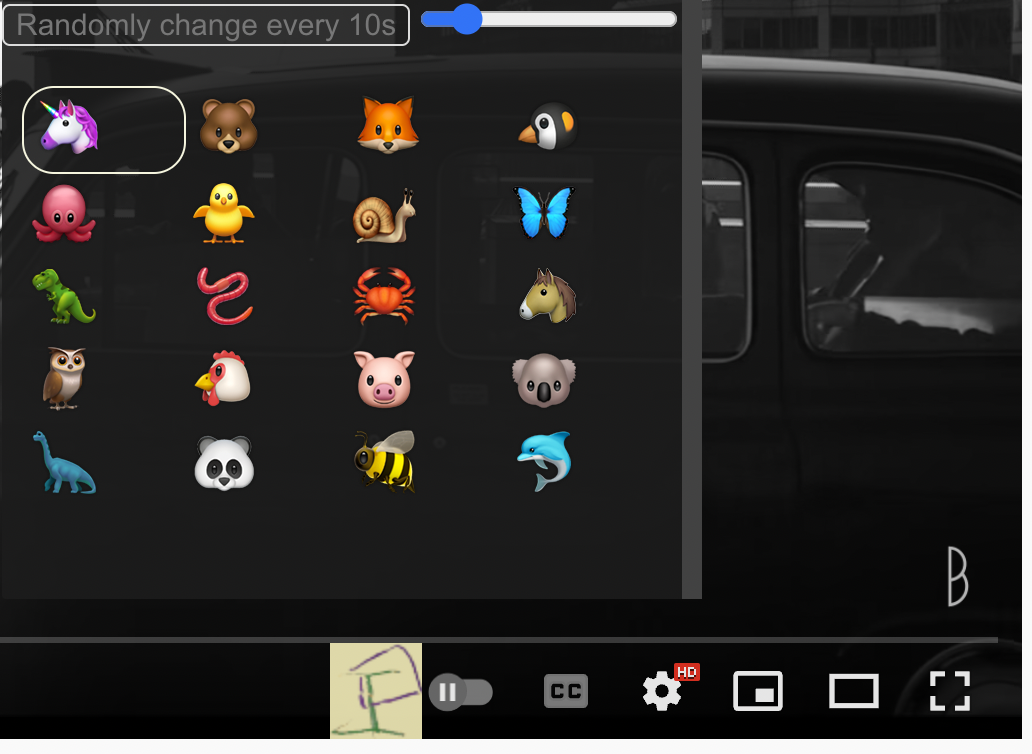
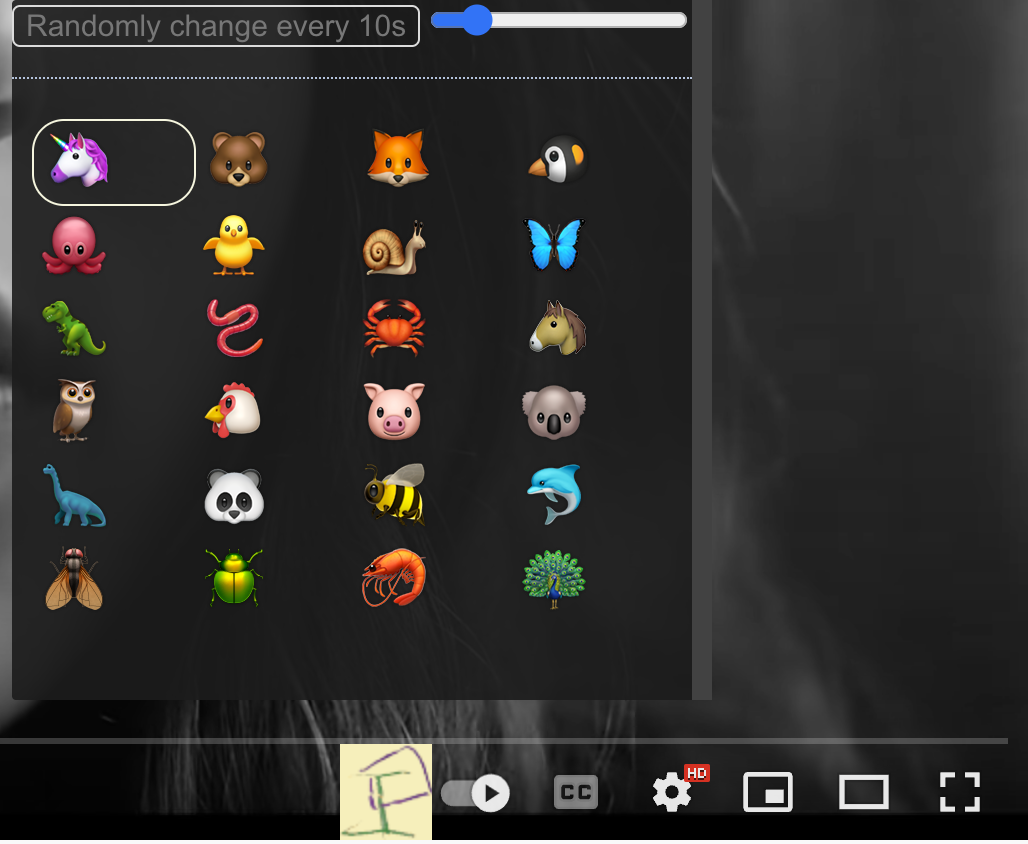
Add 4 new animations
- new menu screenshot
- fix typo manifest.json

diff --git a/src/anim.js b/src/anim.js
@@ -33,6 +33,7 @@ function Anim(mainVideo, canvas, canvasGL, ctx, webGLtx) {
     this.particlesEffectType = 0;
     this.attractionBehaviour = null;
     this.attractionBehaviours = [];
+    this.repulsionBehaviour = null;
     this.nosePosition = {
         x: 400,
         y: 200
@@ -353,6 +354,22 @@ function Anim(mainVideo, canvas, canvasGL, ctx, webGLtx) {
             this.currentAnimation = "particle";
             this.particlesEffectType = 14;
             this.initParticles();
+        }else if (animationId == "particleFireFly"){
+            this.currentAnimation = "particle";
+            this.particlesEffectType = 15;
+            this.initParticles();
+        }else if (animationId == "particleFireFlyColor"){
+            this.currentAnimation = "particle";
+            this.particlesEffectType = 16;
+            this.initParticles();
+        }else if (animationId == "particleSpit"){
+            this.currentAnimation = "particle";
+            this.particlesEffectType = 17;
+            this.initParticles();
+        }else if (animationId == "particle2BallHeadExp"){
+            this.currentAnimation = "particle";
+            this.particlesEffectType = 18;
+            this.initParticles();
         }
     }
 
@@ -421,8 +438,8 @@ function Anim(mainVideo, canvas, canvasGL, ctx, webGLtx) {
         } else if (this.particlesEffectType === 1) {
             // ### Two head balls
             this.proton = new Proton();
-            this.protonEmitterArray[0] = this.createImageEmitter(this.canvas.width / 2 + this.conf.radius, this.canvas.height / 2, '#4F1500', '#0029FF');
-            this.protonEmitterArray[1] = this.createImageEmitter(this.canvas.width / 2 - this.conf.radius, this.canvas.height / 2, '#004CFE', '#6600FF');
+            this.protonEmitterArray[0] = this.createImageEmitter(this.canvas.width / 2 + this.conf.radius, this.canvas.height / 2, '#4F1500', '#0029FF', 3.5);
+            this.protonEmitterArray[1] = this.createImageEmitter(this.canvas.width / 2 - this.conf.radius, this.canvas.height / 2, '#004CFE', '#6600FF', 3.5);
 
             this.tryWebGLRendererInit();
 
@@ -675,13 +692,6 @@ function Anim(mainVideo, canvas, canvasGL, ctx, webGLtx) {
             this.protonEmitterArray[0].emit();
             this.proton.addEmitter(this.protonEmitterArray[0]);
 
-            let renderer = new Proton.CanvasRenderer(this.canvas);
-            // renderer.onProtonUpdate = function() {
-            //     this.ctx.fillStyle = "rgba(0, 0, 0, 0.07)";
-            //     this.ctx.fillRect(0, 0, this.canvas.width, this.canvas.height);
-            // };
-
-            //this.proton.addRenderer(renderer);
             this.tryWebGLRendererInit();
         }else if (this.particlesEffectType == 14){
             this.proton = new Proton();
@@ -710,17 +720,148 @@ function Anim(mainVideo, canvas, canvasGL, ctx, webGLtx) {
             this.protonEmitterArray[0].emit();
             this.proton.addEmitter(this.protonEmitterArray[0]);
 
-            // let renderer = new Proton.WebGLRenderer(this.canvas);
-            // renderer.blendFunc("SRC_ALPHA", "ONE");
+            this.tryWebGLRendererInit();
+        }else if (this.particlesEffectType == 15){
+            // particleFireFly
+            this.proton = new Proton();
+            this.protonEmitterArray[0] = new Proton.Emitter();
+
+            this.protonEmitterArray[0].damping = 0.0075;
+            this.protonEmitterArray[0].rate = new Proton.Rate(1480);
+
+            let particleImage = new Image();
+            particleImage.src = chrome.runtime.getURL("/images/particle.png");
+            particleImage.onload = () => {
+                this.protonEmitterArray[0].addInitialize(new Proton.Body(particleImage, 64));
+            }
+
+            this.protonEmitterArray[0].addInitialize(new Proton.Position(new Proton.RectZone(0, 0, this.canvas.width, this.canvas.height)));
+            this.protonEmitterArray[0].addInitialize(new Proton.Mass(1), new Proton.Radius(Proton.getSpan(5, 10)));
+
+            this.nosePosition = {
+                x: this.canvas.width / 2,
+                y: this.canvas.height / 2
+            };
+            this.repulsionBehaviour = new Proton.Repulsion(this.nosePosition, 0, 0);
+            let crossZoneBehaviour = new Proton.CrossZone(new Proton.RectZone(-2, 0, this.canvas.width, this.canvas.height), 'cross');
+            this.protonEmitterArray[0].addBehaviour(this.repulsionBehaviour, crossZoneBehaviour);
+            this.protonEmitterArray[0].addBehaviour(new Proton.Scale(Proton.getSpan(.1, .4)));
+            this.protonEmitterArray[0].addBehaviour(new Proton.Alpha(.5));
+            this.protonEmitterArray[0].addBehaviour(new Proton.RandomDrift(10, 10, .2));
+
+            this.protonEmitterArray[0].addBehaviour({
+                initialize: function(particle) {
+                    particle.tha = Math.random() * Math.PI;
+                    particle.thaSpeed = 0.015 * Math.random() + 0.005;
+                },
+
+                applyBehaviour: function(particle) {
+                    particle.tha += particle.thaSpeed;
+                    particle.alpha = Math.abs(Math.cos(particle.tha));
+                }
+            });
+
+            this.protonEmitterArray[0].emit('once');
+            this.proton.addEmitter(this.protonEmitterArray[0]);
+
+            // let renderer = new Proton.CanvasRenderer(this.canvas);
             // this.proton.addRenderer(renderer);
             this.tryWebGLRendererInit();
+
+        }else if (this.particlesEffectType == 16){
+            // particleFireFlyColor
+            this.proton = new Proton();
+            this.protonEmitterArray[0] = new Proton.Emitter();
+
+            this.protonEmitterArray[0].damping = 0.0075;
+            this.protonEmitterArray[0].rate = new Proton.Rate(1480);
+
+            let particleImage = new Image();
+            particleImage.src = chrome.runtime.getURL("/images/particle.png");
+            particleImage.onload = () => {
+                this.protonEmitterArray[0].addInitialize(new Proton.Body(particleImage, 64));
+            }
+
+            this.protonEmitterArray[0].addInitialize(new Proton.Position(new Proton.RectZone(0, 0, this.canvas.width, this.canvas.height)));
+            this.protonEmitterArray[0].addInitialize(new Proton.Mass(1), new Proton.Radius(Proton.getSpan(5, 10)));
+            this.protonEmitterArray[0].addBehaviour(new Proton.Color('rgba(255,200,0,0.16)', '#ffff00'));
+
+            this.nosePosition = {
+                x: this.canvas.width / 2,
+                y: this.canvas.height / 2
+            };
+            this.repulsionBehaviour = new Proton.Repulsion(this.nosePosition, 0, 0);
+            let crossZoneBehaviour = new Proton.CrossZone(new Proton.RectZone(-2, 0, this.canvas.width, this.canvas.height), 'cross');
+            this.protonEmitterArray[0].addBehaviour(this.repulsionBehaviour, crossZoneBehaviour);
+            this.protonEmitterArray[0].addBehaviour(new Proton.Scale(Proton.getSpan(.1, 3.4)));
+            this.protonEmitterArray[0].addBehaviour(new Proton.Alpha(.5));
+            this.protonEmitterArray[0].addBehaviour(new Proton.RandomDrift(10, 10, .2));
+
+            this.protonEmitterArray[0].addBehaviour({
+                initialize: function(particle) {
+                    particle.tha = Math.random() * Math.PI;
+                    particle.thaSpeed = 0.015 * Math.random() + 0.005;
+                },
+
+                applyBehaviour: function(particle) {
+                    particle.tha += particle.thaSpeed;
+                    particle.alpha = Math.abs(Math.cos(particle.tha));
+                }
+            });
+
+            this.protonEmitterArray[0].emit('once');
+            this.proton.addEmitter(this.protonEmitterArray[0]);
+
+            // let renderer = new Proton.CanvasRenderer(this.canvas);
+            // this.proton.addRenderer(renderer);
+            this.tryWebGLRendererInit();
+        }else if (this.particlesEffectType == 17){
+            // particleSpit
+            this.proton = new Proton();
+            this.protonEmitterArray[0] = new Proton.Emitter();
+
+            //this.protonEmitterArray[0].damping = 0.0075;
+            this.protonEmitterArray[0].rate = new Proton.Rate(new Proton.Span(10, 15), new Proton.Span(.05, .1));
+
+            let particleImage = new Image();
+            particleImage.src = chrome.runtime.getURL("/images/particle.png");
+            particleImage.onload = () => {
+                this.protonEmitterArray[0].addInitialize(new Proton.Body(particleImage));
+            }
+
+            this.protonEmitterArray[0].addInitialize(new Proton.Mass(1));
+            this.protonEmitterArray[0].addInitialize(new Proton.Life(1, 3));
+            this.protonEmitterArray[0].addInitialize(new Proton.Position(new Proton.CircleZone(0, 0, 20)));
+            this.protonEmitterArray[0].addInitialize(new Proton.Velocity(new Proton.Span(5, 8), new Proton.Span(-15, 15), 'polar'));
+            this.protonEmitterArray[0].addBehaviour(new Proton.RandomDrift(10, 10, .05));
+
+            this.protonEmitterArray[0].addBehaviour(new Proton.Alpha(0.1, 1));
+            this.protonEmitterArray[0].addBehaviour(new Proton.Scale(new Proton.Span(2, 3.5), 0));
+            this.protonEmitterArray[0].addBehaviour(new Proton.G(6));
+            this.protonEmitterArray[0].addBehaviour(new Proton.Color('#FF0026', ['#ffff00', '#ffff11'], Infinity, Proton.easeOutSine));
+
+            this.protonEmitterArray[0].p.x = this.canvas.width / 2;
+            this.protonEmitterArray[0].p.y = this.canvas.height / 2 + 150;
+            this.protonEmitterArray[0].emit();
+            this.proton.addEmitter(this.protonEmitterArray[0]);
+
+            this.tryWebGLRendererInit();
+        }else if (this.particlesEffectType === 18) {
+            // particle2BallHeadExp
+            this.proton = new Proton();
+            this.protonEmitterArray[0] = this.createImageEmitter(this.canvas.width / 2 + this.conf.radius, this.canvas.height / 2, '#9b2c03', '#ffd500', 1);
+            this.protonEmitterArray[1] = this.createImageEmitter(this.canvas.width / 2 - this.conf.radius, this.canvas.height / 2, '#8c00fe', '#ff2600', 1);
+
+            this.tryWebGLRendererInit();
+
+
         }
 
         this.startParticleInit = false;
 
     }
 
-    this.createImageEmitter = function (x, y, color1, color2) {
+    this.createImageEmitter = function (x, y, color1, color2, scaleStart) {
         var emitter = new Proton.Emitter();
         emitter.rate = new Proton.Rate(new Proton.Span(5, 7), new Proton.Span(.01, .02));
 
@@ -735,7 +876,7 @@ function Anim(mainVideo, canvas, canvasGL, ctx, webGLtx) {
 
         emitter.addBehaviour(new Proton.Alpha(1, 0));
         emitter.addBehaviour(new Proton.Color(color1, color2));
-        emitter.addBehaviour(new Proton.Scale(3.5, 0.1));
+        emitter.addBehaviour(new Proton.Scale(scaleStart, 0.1));
         emitter.addBehaviour(new Proton.CrossZone(new Proton.RectZone(0, 0, this.canvas.width, this.canvas.height), 'dead'));
         var attractionBehaviour = new Proton.Attraction(this.nosePosition, 0, 0);
         this.attractionBehaviours.push(attractionBehaviour);
@@ -1121,6 +1262,27 @@ function Anim(mainVideo, canvas, canvasGL, ctx, webGLtx) {
             case 14:
                 this.protonEmitterArray[0].p.x = keypoints[0].x;
                 this.protonEmitterArray[0].p.y = keypoints[0].y-150;
+                break;
+            case 15:
+                this.nosePosition.x = keypoints[0].x;
+                this.nosePosition.y = keypoints[0].y;
+                this.repulsionBehaviour.reset(this.nosePosition, 10, 150);
+                break;
+            case 16:
+                this.nosePosition.x = keypoints[0].x;
+                this.nosePosition.y = keypoints[0].y;
+                this.repulsionBehaviour.reset(this.nosePosition, 20, 250);
+                break;
+            case 17:
+                this.protonEmitterArray[0].p.x = keypoints[0].x;
+                this.protonEmitterArray[0].p.y = keypoints[0].y-100;
+                break;
+            case 18:
+                this.protonEmitterArray[0].p.x = keypoints[0].x + this.conf.radius * Math.sin(Math.PI / 2 + this.conf.tha);
+                this.protonEmitterArray[0].p.y = keypoints[0].y + this.conf.radius * Math.cos(Math.PI / 2 + this.conf.tha);
+                this.protonEmitterArray[1].p.x = keypoints[0].x + this.conf.radius * Math.sin(-Math.PI / 2 + this.conf.tha);
+                this.protonEmitterArray[1].p.y = keypoints[0].y + this.conf.radius * Math.cos(-Math.PI / 2 + this.conf.tha);
+                this.conf.tha += .1;
                 break;
             default:
                 break;

diff --git a/src/content.js b/src/content.js
@@ -45,7 +45,12 @@ var allAnimationIDs=["skeleton",
     "particleBodyGlow",
     "particleBurningMan",
     "particleCyclone",
-    "particleSun"];
+    "particleSun",
+    "particleFireFly",
+    "particleFireFlyColor",
+    "particleHandsTrackFromBorder",
+    "particleSpit"];
+var currentAnimation = "skeleton";  // used for resize event to init particles if needed
 var randomSwitchSec=10;             // sec between animation switch
 var randomSwitchIntervalID=null;    // interval for random animation switch
 
@@ -111,6 +116,7 @@ chrome.runtime.onMessage.addListener(
 function setNewAnimation(animationId){
     if(anim !== null){
         anim.setNewAnimation(animationId);
+        currentAnimation=animationId;
     }
 
 }
@@ -128,6 +134,7 @@ function initVideoPlayerPopup(){
 <input type="range" min="2" max="60" value="10" id="randomRange" onclick="document.dispatchEvent(new CustomEvent('changeRandomInterval', { detail: {interval:this.value} }));">
 </div>
 
+<hr class="sep">
 
 <div class="containerButton">
     <div class="rowButton">
@@ -159,6 +166,12 @@ function initVideoPlayerPopup(){
         <div id="particle2BallHead" class="col-3-Button"><span onclick="document.dispatchEvent(new CustomEvent('changeVisualizationFromPlayer', { detail: {animationID:'particle2BallHead'} }));">🐼</span></div>
         <div id="particleCyclone" class="col-3-Button"><span onclick="document.dispatchEvent(new CustomEvent('changeVisualizationFromPlayer', { detail: {animationID:'particleCyclone'} }));">🐝</span></div>
         <div id="particleSun" class="col-3-Button"><span onclick="document.dispatchEvent(new CustomEvent('changeVisualizationFromPlayer', { detail: {animationID:'particleSun'} }));">🐬</span></div>
+    </div>
+    <div class="rowButton">
+        <div id="particleFireFly" class="col-3-Button"><span onclick="document.dispatchEvent(new CustomEvent('changeVisualizationFromPlayer', { detail: {animationID:'particleFireFly'} }));">🪰</span></div>
+        <div id="particleFireFlyColor" class="col-3-Button"><span onclick="document.dispatchEvent(new CustomEvent('changeVisualizationFromPlayer', { detail: {animationID:'particleFireFlyColor'} }));">🪲</span></div>
+        <div id="particleSpit" class="col-3-Button"><span onclick="document.dispatchEvent(new CustomEvent('changeVisualizationFromPlayer', { detail: {animationID:'particleSpit'} }));">🦐</span></div>
+        <div id="particle2BallHeadExp" class="col-3-Button"><span onclick="document.dispatchEvent(new CustomEvent('changeVisualizationFromPlayer', { detail: {animationID:'particle2BallHeadExp'} }));">🦚</span></div>
     </div>
 </div>
     `;
@@ -320,6 +333,8 @@ const resizeObserver = new ResizeObserver(entries => {
         anim = new Anim(mainVideo,canvas, canvasGL, ctx, webGLtx);
     }else{
         anim.updateCanvas(mainVideo,canvas, canvasGL, ctx, webGLtx);
+        // use new size and init animations
+        anim.setNewAnimation(currentAnimation);
     }
 
 });

diff --git a/src/content.css b/src/content.css
@@ -11,7 +11,7 @@
     -moz-user-select: none;
     -ms-user-select: none;
     -webkit-user-select: none;
-    width: 350px; height: 300px; right: 160px; bottom: 70px; z-index: 71
+    width: 350px; height: 350px; right: 160px; bottom: 70px; z-index: 71
 }
 
 .pdVideoButton {
@@ -80,4 +80,9 @@
     cursor: pointer;
     overflow: hidden;
     outline: none;
+}
+
+hr.sep {
+    margin-top: 15px;
+    border-top: 1px dotted lightsteelblue;
 }
